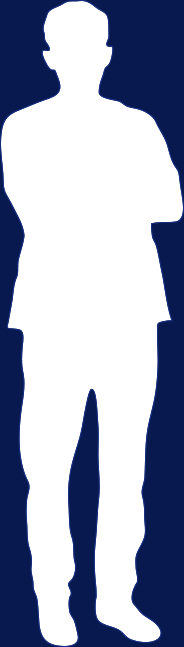
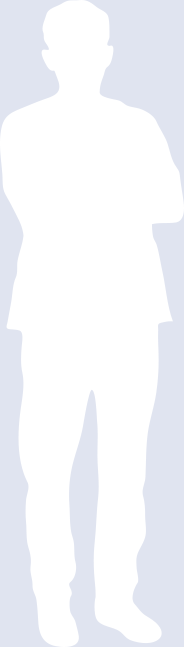
update wpw

diff --git a/src/components/renmintj/peoplePortrait.vue b/src/components/renmintj/peoplePortrait.vue
@@ -22,7 +22,7 @@
        <div class="totalNum_content_leftTitle2_address">{{renyuanxq.person[0].tiaojiewyh}}</div>
      </div>
      <div class="totalNum_content_leftContent">
-       <canvas  class="totalNum_content_leftContent1" width="184px" height="647px"></canvas>
+       <canvas  class="totalNum_content_leftContent_canvas" width="184px" height="647px"></canvas>
      </div>
    </div>
    <div class="totalNum_content_right1">
@@ -121,12 +121,12 @@ export default {
         return [item.name, item.value]
       }))
       let vue = this
-      let ctx = document.getElementsByClassName('totalNum_content_leftContent1')[0].getContext('2d')
+      let ctx = document.getElementsByClassName('totalNum_content_leftContent_canvas')[0].getContext('2d')
       let img = new Image()
       img.src = 'static/renmintjOther/pic_boy2.png'
       img.onload = function () {
         ctx.drawImage(img, 0, 0)
-        vue.$wordcloud(document.getElementsByClassName('totalNum_content_leftContent1')[0], option)
+        vue.$wordcloud(document.getElementsByClassName('totalNum_content_leftContent_canvas')[0], option)
       }
     },
     drawWordcloud3 () {
@@ -224,7 +224,7 @@ export default {
     width: 489px;
     height: 868px;
     margin-right: 13px;
-    background: linear-gradient( rgba(0,33,129,0.5),rgba(0,33,129,0));
+    background: rgba(0,33,129,0.3);
   }
   .totalNum_content_leftTitle1{
     height: 66px;
@@ -284,12 +284,22 @@ export default {
     padding-left: 26px;
   }
   .totalNum_content_leftContent{
-    background: url('/static/renmintjOther/pic_boy.png') no-repeat;
-    height: 647px;
+    background: url('/static/renmintjOther/pic_boy1.png') no-repeat;
+    /* height: 725px;
+    width: 415px;
+    margin-top: 0px;
+    margin-left: auto;
+    margin-right: auto; */
     width: 184px;
+    height: 647px;
+    margin-top: 15px;
     margin-left: auto;
     margin-right: auto;
-    margin-top: 32px;
+  }
+
+  .totalNum_content_leftContent_canvas{
+    /* margin-left: 114px;
+     margin-top: 15px; */
   }
   .totalNum_content_right1{
     float: left;
